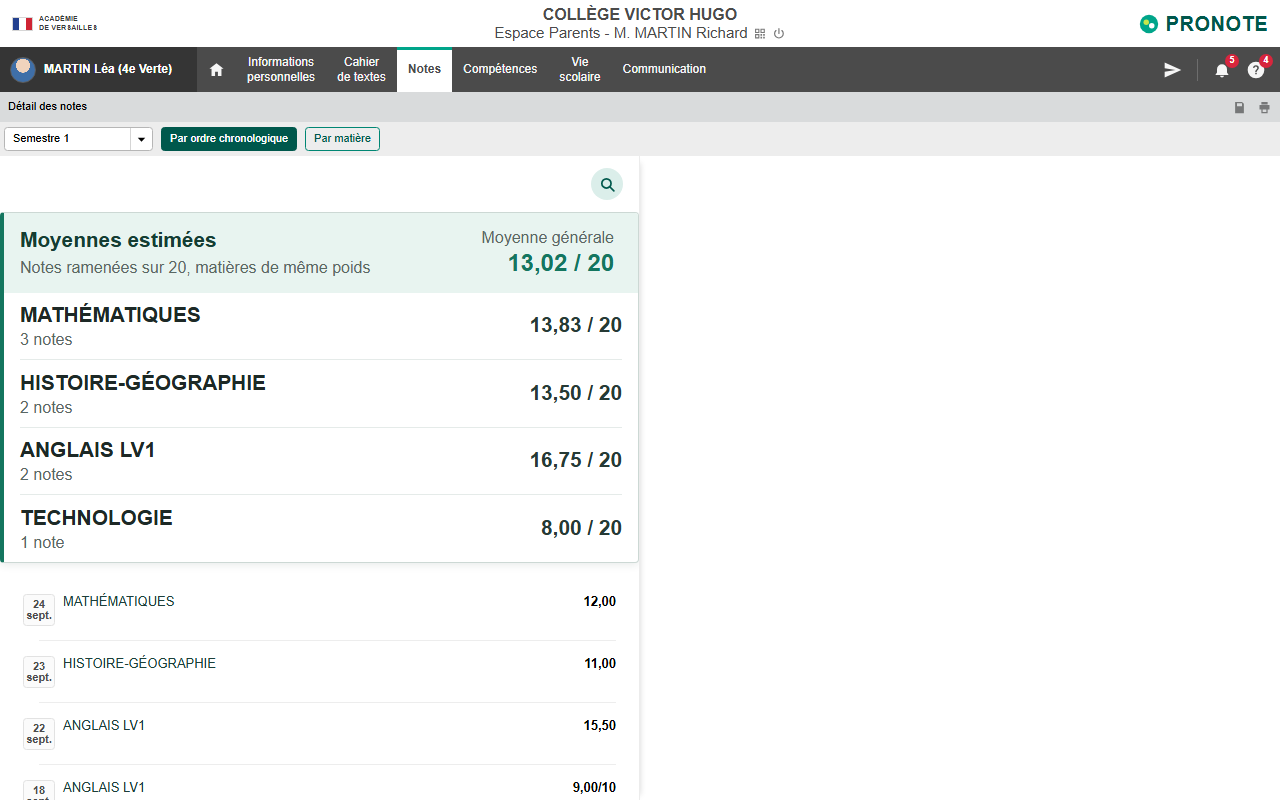
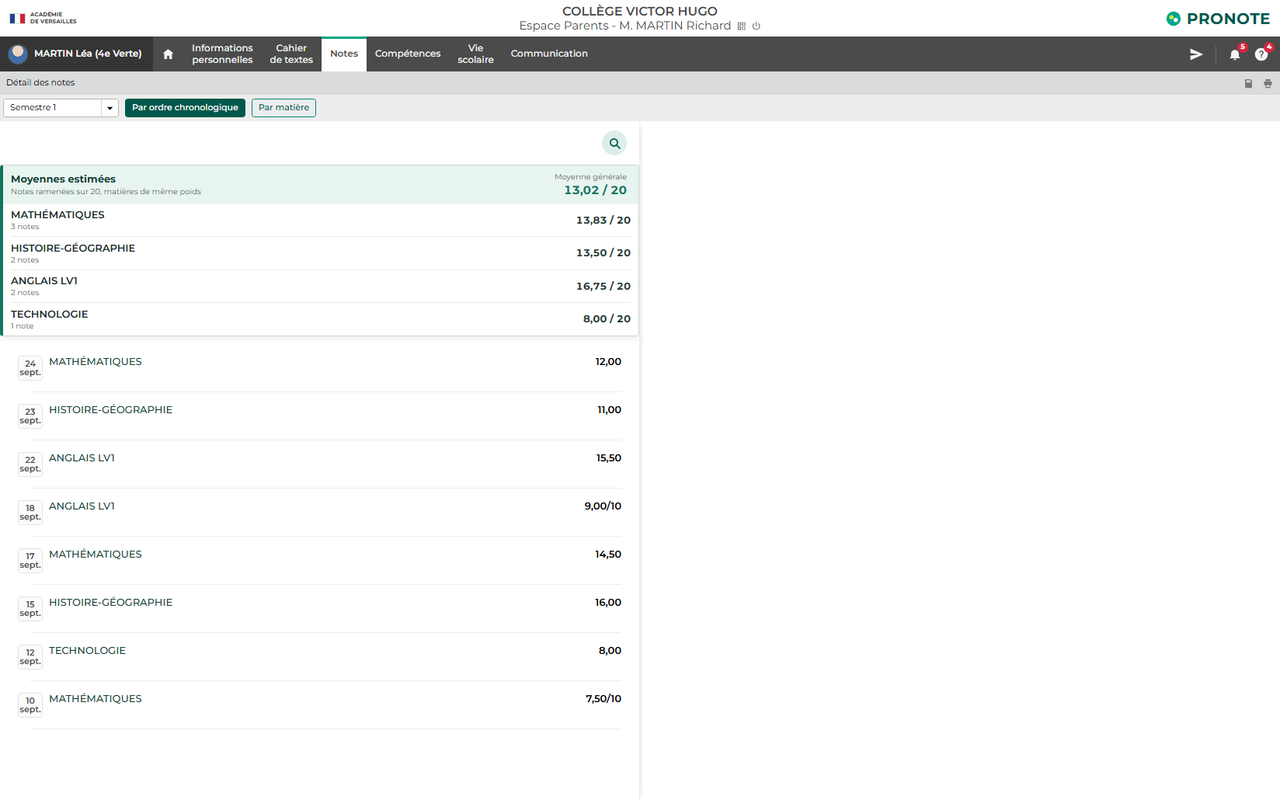
Corrige l'echelle rem des captures et supprime la coupure de liste

diff --git a/tools/store-screenshot.html b/tools/store-screenshot.html
@@ -16,6 +16,11 @@
         box-sizing: border-box;
       }
 
+      /* PRONOTE fixe la racine a 10px : content.css etant en rem, c'est indispensable. */
+      html {
+        font-size: 10px;
+      }
+
       body {
         margin: 0;
         background: #52585c;
@@ -23,9 +28,10 @@
         color: #000;
       }
 
+      /* Capture headless en 1648x1030 (16:10) puis reduction a 1280x800 : tout tient sans coupure. */
       #shot {
-        width: 1280px;
-        height: 800px;
+        width: 100vw;
+        height: 100vh;
         overflow: hidden;
         background: #fff;
         display: flex;
@@ -293,8 +299,8 @@
       }
 
       .liste-contain {
-        width: 640px;
-        flex: 0 0 640px;
+        width: 50%;
+        flex: 0 0 50%;
         display: flex;
         flex-direction: column;
         min-height: 0;
